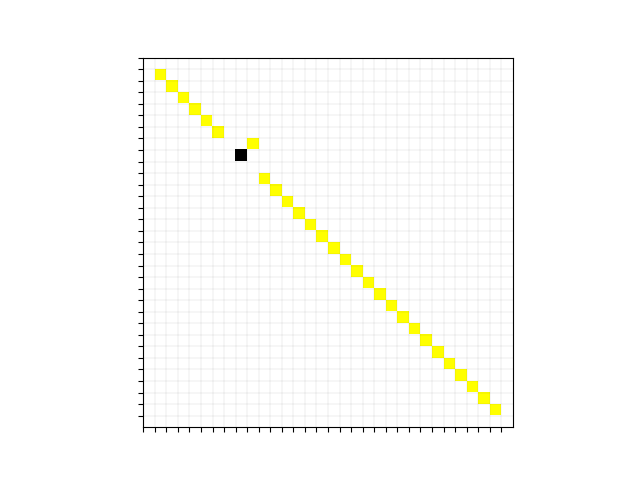
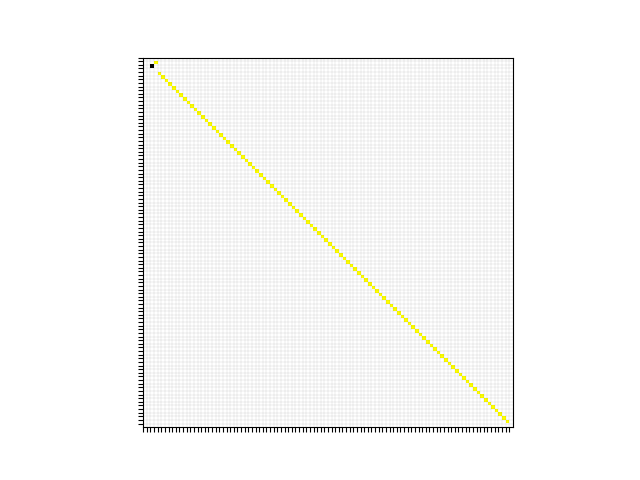
finished the thesis

diff --git a/random_singlets/ZT_RSS.py b/random_singlets/ZT_RSS.py
@@ -4,12 +4,14 @@ class ZT_Random_Spin:
 
     version="v2.1"
 
-    def __init__(self, number_of_bonds, ceiling):
+    def __init__(self, number_of_bonds, ceiling, bottom):
         self.length = int(number_of_bonds) #the length of the chain (actually the total amount of bonds so chain-1)
         self.ceiling = ceiling
+        self.bottom = bottom
         self.matrix_creator()
         self.average_strength()
         self.bonds()
+        self.dist()
         self.rg_end()
         self.sys_energy()
         self.logarithmic()
@@ -17,16 +19,11 @@ class ZT_Random_Spin:
     #creates and defines the matrix, adding "padding" of 2 zero rows+columns to dodge the issue of biggest bond in the boundaries
     def matrix_creator(self):
         self.bond_matrix = np.zeros(shape=(self.length ,self.length)) #initialzes the bond matrix
-        initial_bonds = self.ceiling*np.random.uniform(0, self.ceiling, self.length)
+        initial_bonds = np.random.uniform(self.bottom, self.ceiling, self.length)
         np.fill_diagonal(self.bond_matrix, initial_bonds) #adds the bonds
         A = np.c_[np.zeros(self.length), self.bond_matrix, np.zeros(self.length)] #this allows us to add two columns of 0s, essentially closing the system and also solves IndexErrors for when the max bond is in the boundaries
         A = np.r_[[np.zeros(self.length + 2)], A, [np.zeros(self.length + 2)]] #this adds the rows of 0s, see above
         self.bond_matrix = A
-        return self
-
-    #computes the energy
-    def sys_energy(self):
-        self.system_energy = -(1/4)*np.sum(self.bond_matrix[self.bond_matrix > 0])
         return self
 
     #finds the strongest bond and those next to it
@@ -34,7 +31,8 @@ class ZT_Random_Spin:
         #finds the strongest bond
         self.max_bond = np.amax(self.bond_matrix)
         self.max_index = np.argwhere(self.bond_matrix.max() == self.bond_matrix).ravel()
-
+        # dum = self.ceiling-self.max_bond
+        # self.max_bond+=dum
         #finds the bond to the left
         self.left_index = np.array([0, 0])
         self.left_bond = 0
@@ -62,23 +60,31 @@ class ZT_Random_Spin:
         else:
             self.right_index = np.array([self.length+1, self.length+1])
             self.right_bond =0
-        #print(self.left_index, self.max_index, self.right_index)
         return self
 
-    #computes the average strength of the bonds
+    def sys_energy(self):
+        self.system_energy = -(1/4)*np.sum(self.bond_matrix[self.bond_matrix > 0])
+        return self
+
     def average_strength(self):
         self.mean = np.sum(self.bond_matrix)/self.length
         return self
 
     def logarithmic(self):
-        self.logmax = -np.log(self.max_bond)
+        self.zeta = np.log(self.max_bond/self.bond_matrix[self.bond_matrix > 0])
+        self.gamma = -np.log(self.max_bond)
+        self.eta = self.zeta/self.gamma
         return self
 
     def rgflow(self):
-        self.flow = self.bond_matrix[np.nonzero(self.bond_matrix)]
+        self.logarithmic()
+        self.flow = self.bond_matrix[self.bond_matrix > 0]
         return self
-    
-    
+
+    def dist(self):
+        self.distance = self.right_index[1]-self.left_index[0]
+        return self
+
     def rescale(self):
         temporary_val = self.max_bond
         self.bonds()
@@ -93,17 +99,22 @@ class ZT_Random_Spin:
 
     #This is the RG process
     def renormalization(self):
+        energy_prime = -(1/4)*self.max_bond - ((3/16)/self.max_bond)*((self.left_bond**2) + (self.right_bond**2)) # find the energy contribution
+        bond_prime = (self.left_bond*self.right_bond)/(2*self.max_bond) # find the strength of the new bond that will exist after we remove the spins
+        self.local_energy = (-1/4)*np.sum(self.bond_matrix[self.max_index])
+        self.new_local_energy = energy_prime -(1/4)*bond_prime # finds the energy that we will add to the total energy after we remove the spins/bonds that existed
+
         self.bond_matrix[self.left_index[0]][self.left_index[1]] = 0
         self.bond_matrix[self.right_index[0]][self.right_index[1]] = 0
         self.bond_matrix[self.left_index[0]][self.right_index[1]] = bond_prime
-        self.bond_matrix[self.max_index[0]][self.max_index[1]] = self.max_bond - self.ceiling
+        self.bond_matrix[self.max_index[0]][self.max_index[1]] = -.00001
         if self.bond_matrix[0][0]!=0:
             self.bond_matrix[0][0] = 0
 
-        self.distance = self.right_index[1]-self.left_index[0]
+        
         self.average_strength() # recalculates the average strength
+        self.dist()
         self.sys_energy()
-        #self.logarithmic() #evaluates the log variable for the rg flow
         self.rescale() # rescales the matix and also refreshes the biggest bond search
         self.rg_end() #checks for non-singlets
         return self

diff --git a/matrix.py b/matrix.py
@@ -3,28 +3,31 @@ import matplotlib.pyplot as plt
 import matplotlib.animation as animation
 from matplotlib import colors
 from random_singlets.ZT_RSS import ZT_Random_Spin
+
+length = 100
+matrix = ZT_Random_Spin(length,1,0)
+
 fig = plt.figure()
 
 ax = plt.gca()
-ax.set_xticks(np.arange(-0.5, 31, 1))
-ax.set_yticks(np.arange(-0.5, 31, 1))
+ax.set_xticks(np.arange(-0.5, length+1, 1))
+ax.set_yticks(np.arange(-0.5, length+1, 1))
 ax.set_xticklabels('')
 ax.set_yticklabels('')
 ax.grid(color='k', linestyle='-', linewidth=0.05)
-matrix = ZT_Random_Spin(30,1)
 
 cmap = colors.ListedColormap(['black','white','yellow'])
 bounds=[-matrix.ceiling, -0.0000000000001,0.0000000000001, matrix.ceiling]
 norm = colors.BoundaryNorm(bounds, cmap.N)
 ims = []
 img = plt.imshow(matrix.bond_matrix, interpolation='nearest', cmap=cmap, norm=norm, animated=True)
-img.figure.savefig('Figures/Matrix/startmatrix.png')
+img.figure.savefig('Figures/Matrix/startmatrix.png', pad_inches=0, transparent=True)
 
 i=0
 while matrix.end_rg == 0:
     matrix.renormalization()
     if i == 1 or i == 5 or i == 10 or i ==13:
-        img.figure.savefig('Figures/Matrix/midrg'+str(i)+'.png')
+        img.figure.savefig('Figures/Matrix/midrg'+str(i)+'.png', pad_inches=0, transparent=True)
     img = plt.imshow(matrix.bond_matrix, interpolation='nearest', cmap=cmap, norm=norm, animated=True)
     ims.append([img])
     i+=1
@@ -32,5 +35,5 @@ while matrix.end_rg == 0:
 ani = animation.ArtistAnimation(fig, ims, interval=200, blit=True, repeat_delay=10000)
 ani.save('Figures/rg.gif')
 
-img.figure.savefig('Figures/Matrix/singlet-phase.png')
+img.figure.savefig('Figures/Matrix/singlet-phase.png', pad_inches=0, transparent=True)
 plt.show()

diff --git a/parameters.py b/parameters.py
@@ -1,0 +1,56 @@
+import numpy as np
+import matplotlib.pyplot as plt
+from random_singlets.ZT_RSS import ZT_Random_Spin
+from tqdm import tqdm
+import seaborn as sns
+
+length=100
+iterations=20
+genen=np.zeros(int(length/2))
+genmean=np.zeros(int(length/2))
+gendist=np.zeros(int(length/2))
+for j in tqdm(range(iterations)):
+    matrix = ZT_Random_Spin(length,1,0)
+    en = []
+    mean= []
+    dist = []
+    while matrix.end_rg == 0:
+        matrix.renormalization()
+        en = np.append(en, np.abs(matrix.system_energy))
+        mean = np.append(mean, matrix.mean)
+        dist = np.append(dist, matrix.distance)
+    plt.figure(1)
+    plt.plot(en, 'b')
+    plt.figure(2)
+    plt.plot(mean, 'b')
+    plt.figure(3)
+    #plt.hist(dist, bins=int(length/2))
+    genen+=en
+    genmean+=mean
+    gendist+=dist
+genen=genen/iterations
+genmean = genmean/iterations
+gendist = gendist/iterations
+
+print(genen[int(length/2)-1])
+plt.figure(1)
+plt.plot(genen, '--r', linewidth=4)
+plt.ylabel('System energy')
+plt.xlabel('Iteration step')
+plt.savefig('Figures/energy.png')
+
+plt.figure(2)
+plt.plot(genmean, '--r', linewidth=4)
+plt.ylabel('Average bond strength')
+plt.xlabel('Iteration step')
+plt.savefig('Figures/meanstr.png')
+
+plt.figure(3)
+sns.kdeplot(gendist, bw_method=.3)
+plt.xlim(0)
+plt.ylabel('# of bonds')
+plt.yticks([])
+plt.xlabel('Distance between the two spins')
+plt.savefig('Figures/distance.png')
+
+plt.show()

diff --git a/flow.py b/flow.py
@@ -1,20 +1,42 @@
 import numpy as np
 import matplotlib.pyplot as plt
 from random_singlets.ZT_RSS import ZT_Random_Spin
+import seaborn as sns
+import statsmodels.api as sm
 from tqdm import tqdm
 
-iterations=10
+length=1000
+val=np.zeros(length)
+matrix = ZT_Random_Spin(length,1,0)
 
-for j in tqdm(range(iterations)):
-    matrix = ZT_Random_Spin(100,1)
-    values = []
-    i=0
-    while matrix.end_rg == 0:
-        matrix.renormalization()
-        matrix.rgflow()
-        values = np.append(values, np.sum(matrix.flow[matrix.flow > 0])/matrix.length)
-        i+=1
-    plt.plot(values)
+leg=[]
 
-plt.savefig('Figures/rgflow.png')
+plt.figure(1)
+for i in tqdm(range(int(length/2))):
+    if i == 0 or i==10 or i==200 or i==int(length/2 -1):
+        plt.figure(1)
+        sns.kdeplot(matrix.bond_matrix[matrix.bond_matrix != 0], bw_method=.5)
+        leg = np.append(leg, 'Distribution for the '+str(i)+'th Iteration')
+
+    matrix.renormalization()
+plt.figure(2)
+dens = sm.nonparametric.KDEUnivariate(matrix.bond_matrix[matrix.bond_matrix != 0])
+dens.fit(bw=.5)
+x =np.linspace(0,1,100)
+y = dens.evaluate(x)
+
+plt.figure(1)
+plt.xlim(0, 1)
+plt.xlabel('')
+plt.ylabel('')
+plt.yticks([])
+plt.legend(leg)
+plt.savefig('Figures/distribution.png')
+
+plt.figure(2)
+plt.yticks([])
+plt.plot(x,y)
+plt.xlabel('')
+plt.savefig('Figures/singlet_dist.png')
+
 plt.show()

diff --git a/test.py b/test.py
@@ -1,0 +1,19 @@
+import numpy as np
+import seaborn as sns
+import matplotlib.pyplot as plt
+from random_singlets.ZT_RSS import ZT_Random_Spin
+from tqdm import tqdm
+
+length=1000
+matrix = ZT_Random_Spin(length,1,0)
+
+for i in tqdm(range(int(length/2)-1)):
+    matrix.renormalization()
+dens = sm.nonparametric.KDEUnivariate(np.abs(matrix.bond_matrix[matrix.bond_matrix != 0]))
+dens.fit()
+x =np.linspace(0,1,100) #restrict range to (0,1)
+y = dens.evaluate(x)
+plt.plot(x,y, 'k')
+plt.yticks([])
+plt.xlabel('')
+plt.savefig('Figures/test.png')
